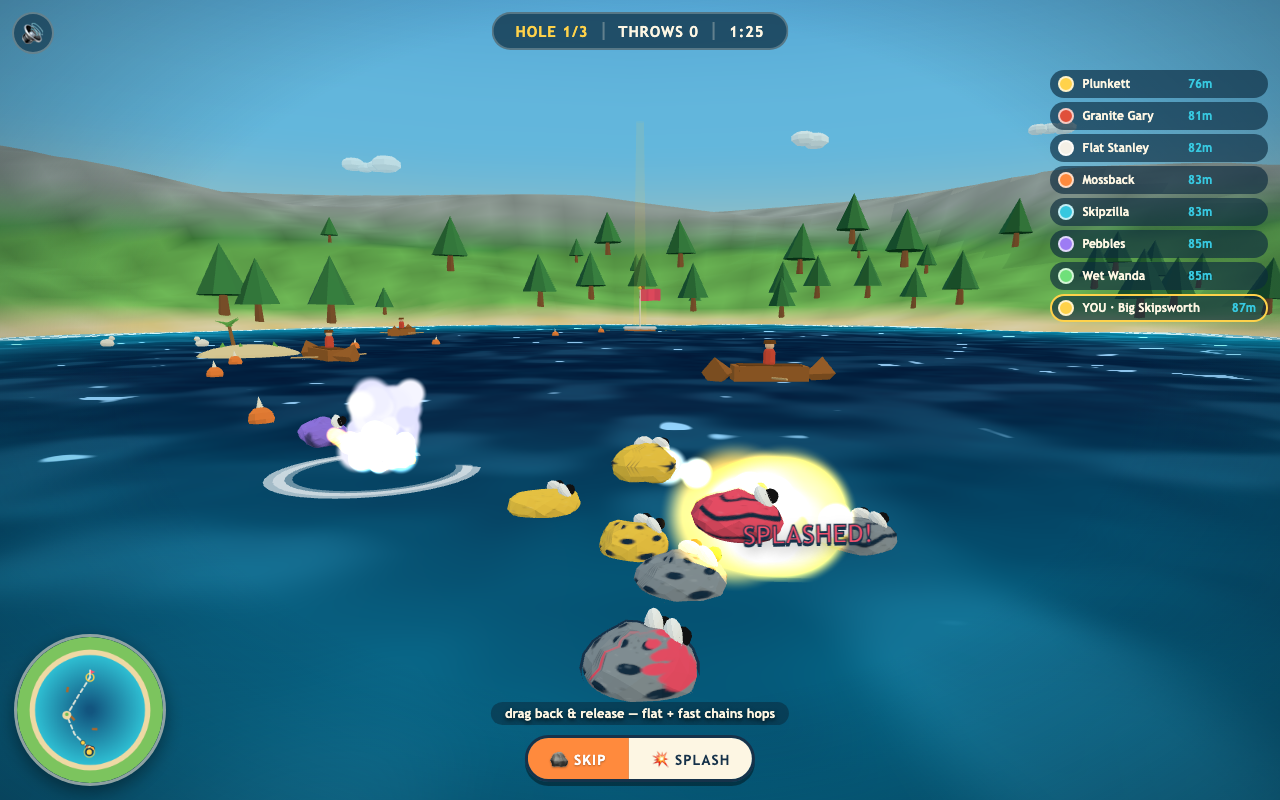
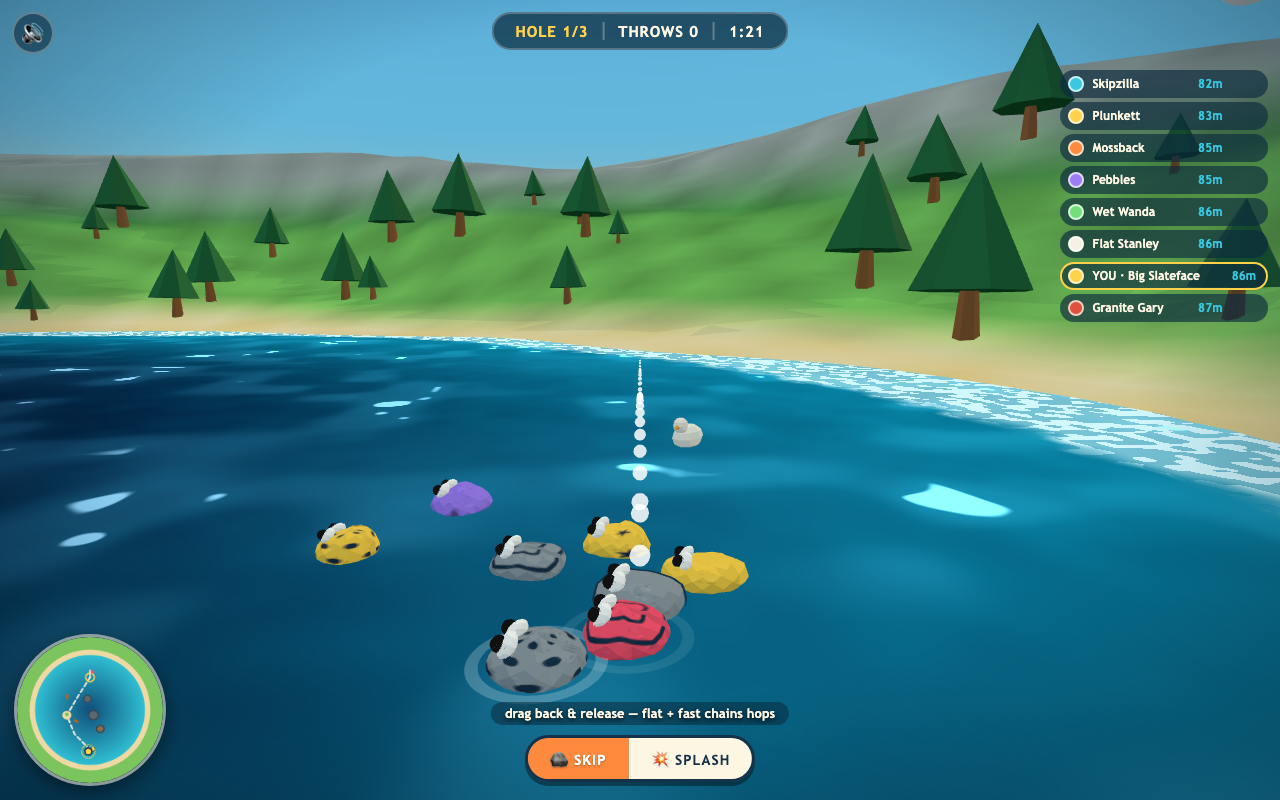
Rock spire hazards + aim-orbiting camera
Giant outcrops wall off the direct line to each flag, forcing play along
the island route. Cylinder collision with honest preview (same maths in
simulateThrow, so the aim dots and bot planner both see the CLONK).
Hazards render on the minimap.

The aim camera now orbits the resting stone to follow your drag, keeping
the trajectory preview centered on screen at all times; it re-centers
toward the flag at every new lie.

diff --git a/src/main.js b/src/main.js
@@ -65,13 +65,17 @@ const cel = new CelShader(scene, { steps: 4, floor: 0.42, rescanSec: 1.0 });
 // rest stops on the bends — land on one and you throw from dry sand, no fishing.
 const HOLES = [
   {
-    // gentle S through one island
+    // gentle S through one island; spires wall off the straight shot
     time: 90,
     path: [
       { x: 0, z: 46 }, { x: -18, z: 28 }, { x: -27, z: 6 },
       { x: -14, z: -16 }, { x: 0, z: -38 },
     ],
     islands: [{ x: -27, z: 6, r: 3.4 }],
+    rocks: [
+      { x: 4, z: 6, r: 5.5, h: 9 }, { x: 12, z: 22, r: 4.5, h: 8 },
+      { x: -3, z: -13, r: 4.2, h: 7 },
+    ],
   },
   {
     // double dogleg around the east shore, two islands
@@ -81,6 +85,10 @@ const HOLES = [
       { x: 34, z: -16 }, { x: 40, z: 6 }, { x: 28, z: 24 }, { x: 12, z: 34 },
     ],
     islands: [{ x: 12, z: -34, r: 3.2 }, { x: 40, z: 6, r: 3.6 }],
+    rocks: [
+      { x: -14, z: 2, r: 6, h: 9 }, { x: 2, z: 11, r: 5, h: 8 },
+      { x: -3, z: -11, r: 4.5, h: 7 },
+    ],
   },
   {
     // full zigzag, three islands
@@ -91,6 +99,10 @@ const HOLES = [
       { x: 8, z: 37 }, { x: 28, z: 26 },
     ],
     islands: [{ x: 14, z: -41, r: 3 }, { x: -36, z: -14, r: 3.4 }, { x: -16, z: 29, r: 3 }],
+    rocks: [
+      { x: 34, z: -2, r: 5.5, h: 9 }, { x: 25, z: 11, r: 4.5, h: 8 },
+      { x: 15, z: -13, r: 4.5, h: 7 }, { x: 0, z: 4, r: 5, h: 8 },
+    ],
   },
 ];
 const CAPTURE_R = 4.2;
@@ -120,8 +132,19 @@ const G = {
   throwMode: "skip",
   throwCooldown: 0,
   slowmoUsed: false,
+  aimDir: new THREE.Vector3(0, 0, -1), // camera-following aim direction
   effects: [], // { t, fn } delayed one-shots on game time
 };
+
+/** point the aim (and thus the camera) from the player's lie toward the flag */
+function resetAim() {
+  const p = G.player;
+  if (!p) return;
+  const f = holeFlag();
+  G.aimDir.set(f.x - p.pos.x, 0, f.z - p.pos.z);
+  if (G.aimDir.lengthSq() < 0.01) G.aimDir.set(0, 0, -1);
+  G.aimDir.normalize();
+}
 
 function after(sec, fn) { G.effects.push({ t: sec, fn }); }
 
@@ -241,11 +264,8 @@ function camUpdate(dt) {
     targetLook = lookStart.lerp(lookEnd, e);
     if (t >= 1) cam.mode = "aim";
   } else if (cam.mode === "aim" && p) {
-    const flag = currentFlagV3();
-    const dir = new THREE.Vector3().subVectors(flag, p.pos);
-    dir.y = 0;
-    if (dir.lengthSq() < 0.01) dir.set(0, 0, -1);
-    dir.normalize();
+    // orbit behind the CURRENT aim so the trajectory previz stays centered
+    const dir = G.aimDir;
     const pull = drag.power * 2.2;
     targetPos = p.pos.clone().addScaledVector(dir, -(6.5 + pull)).add(new THREE.Vector3(0, 3.4 + pull * 0.4, 0));
     targetLook = p.pos.clone().addScaledVector(dir, 10).add(new THREE.Vector3(0, 1.2, 0));
@@ -269,7 +289,12 @@ function camUpdate(dt) {
     targetLook = cam.look;
   }
 
-  const l = cam.mode === "flight" ? 6.5 : cam.mode === "intro" ? 8 : cam.mode === "replay" ? 6 : 3.6;
+  // snappier orbit while actively dragging so the previz tracks the pointer
+  const l = cam.mode === "flight" ? 6.5
+    : cam.mode === "intro" ? 8
+    : cam.mode === "replay" ? 6
+    : cam.mode === "aim" && drag.active ? 6.5
+    : 3.6;
   camRig.position.x = damp(camRig.position.x, targetPos.x, l, dt);
   camRig.position.y = damp(camRig.position.y, targetPos.y, l, dt);
   camRig.position.z = damp(camRig.position.z, targetPos.z, l, dt);
@@ -307,10 +332,11 @@ function updateDragAim() {
   const ang = -dx * 0.005;
   const cos = Math.cos(ang), sin = Math.sin(ang);
   drag.dir.set(base.x * cos - base.z * sin, 0, base.x * sin + base.z * cos);
+  G.aimDir.copy(drag.dir); // camera orbits to keep the previz centered
 
   // preview via the real sim
   previewMat.color.setHex(G.throwMode === "splash" ? 0xff9aac : 0xffffff);
-  const sim = simulateThrow(p.pos, drag.dir, drag.power, G.throwMode, p.rock, water, G.elapsed, 6, HOLES[G.hole].islands);
+  const sim = simulateThrow(p.pos, drag.dir, drag.power, G.throwMode, p.rock, water, G.elapsed, 6, HOLES[G.hole].islands, HOLES[G.hole].rocks);
   const step = Math.max(1, Math.floor(sim.points.length / previewDots.length));
   let di = 0;
   for (let i = 0; i < sim.points.length && di < previewDots.length; i += step) {
@@ -340,7 +366,7 @@ function tryPlayerThrow() {
   // invisible aim assist (team scrap: invisible-driving-assist-layer):
   // if the throw would land near the flag line, nudge it a touch truer
   if (G.throwMode === "skip") {
-    const sim = simulateThrow(p.pos, drag.dir, power, "skip", p.rock, water, G.elapsed, 6, HOLES[G.hole].islands);
+    const sim = simulateThrow(p.pos, drag.dir, power, "skip", p.rock, water, G.elapsed, 6, HOLES[G.hole].islands, HOLES[G.hole].rocks);
     const end = sim.points[sim.points.length - 1];
     if (end) {
       const flag = currentFlagV3();
@@ -982,8 +1008,8 @@ function setupHole(idx) {
   G.slowmoUsed = false;
   const tee = holeTee(idx), flag = holeFlag(idx);
   world.flag.setPosition(flag.x, flag.z);
-  world.course.setHole(HOLES[idx].path, HOLES[idx].islands);
-  minimap.bake(HOLES[idx].path, HOLES[idx].islands);
+  world.course.setHole(HOLES[idx].path, HOLES[idx].islands, HOLES[idx].rocks);
+  minimap.bake(HOLES[idx].path, HOLES[idx].islands, HOLES[idx].rocks);
   for (const s of G.racers) s.resetHole(tee.x, tee.z, 4);
   for (const b of G.bots) {
     b.cooldown = 3.2 + Math.random() * 3.5; // let the intro flyover breathe
@@ -991,6 +1017,7 @@ function setupHole(idx) {
   }
   cam.mode = "intro";
   G.introT = 0;
+  resetAim();
   // snap the rig to the flyover start so the wipe reveals a framed shot
   {
     const flagV = new THREE.Vector3(flag.x, 0, flag.z);
@@ -1055,6 +1082,7 @@ function onSkimmerEvent(type, data) {
       if (mine) {
         cam.mode = "aim";
         G.throwCooldown = 0.4;
+        resetAim();
         if (s.skips >= 3) {
           const sc = worldToScreen(s.pos);
           if (!sc.behind) ui.popup(sc.x, sc.y - 40, `${s.skips} skips!`, { size: 26, color: "#aef4ff" });
@@ -1118,10 +1146,26 @@ function onSkimmerEvent(type, data) {
         ui.banner("FERRY RIDE!", "the rowboat carries your stone — throw when ready", 2.2);
         cam.mode = "aim";
         G.throwCooldown = 0.4;
+        resetAim();
         shake(0.1);
       } else {
         const sc = worldToScreen(data.at);
         if (!sc.behind) ui.popup(sc.x, sc.y, `${s.name} hitched a ride!`, { size: 16, color: "#fff" });
+      }
+      break;
+    }
+    case "clonk": {
+      audio.thunk();
+      particles.grindChips(data.at);
+      particles.skipSplash(data.at, s.vel, 0.3);
+      const sc = worldToScreen(data.at);
+      if (mine) {
+        shake(0.3);
+        hitstop(0.05, 0.8);
+        if (!sc.behind) ui.popup(sc.x, sc.y - 10, "CLONK!", { size: 30, color: "#c8d2d8" });
+        haptic([25, 30]);
+      } else if (!sc.behind) {
+        ui.popup(sc.x, sc.y, "clonk", { size: 16, color: "#c8d2d8" });
       }
       break;
     }
@@ -1134,6 +1178,7 @@ function onSkimmerEvent(type, data) {
         ui.banner("SAFE ON SAND", "dry land — throw again whenever, no fishing here", 1.6);
         cam.mode = "aim";
         G.throwCooldown = 0.4;
+        resetAim();
         shake(0.08);
       } else if (!sc.behind) {
         ui.popup(sc.x, sc.y, `${s.name} island-hopped`, { size: 15, color: "#6fe07a" });
@@ -1147,6 +1192,7 @@ function onSkimmerEvent(type, data) {
         if (!sc.behind) ui.popup(sc.x, sc.y, "BEACHED", { size: 26, color: "#eed9a4" });
         cam.mode = "aim";
         G.throwCooldown = 0.4;
+        resetAim();
       }
       break;
     }
@@ -1374,7 +1420,7 @@ function updateRace(dt) {
   const ctx = {
     dt, elapsed: G.elapsed, water, boats,
     others: G.racers, flagPos: flag, captureR: CAPTURE_R,
-    islands: HOLES[G.hole].islands, path: HOLES[G.hole].path,
+    islands: HOLES[G.hole].islands, path: HOLES[G.hole].path, rocks: HOLES[G.hole].rocks,
     onBotRecover: (s) => {
       particles.sinkSplash(s.pos, 0.7);
     },
@@ -1457,6 +1503,7 @@ function updateRace(dt) {
       if (!sc.behind) ui.popup(sc.x, sc.y - 30, clean ? "CLEAN CATCH!" : "got it back...", { size: 28, color: "#6fe07a" });
       cam.mode = "aim";
       G.throwCooldown = 0.4;
+      resetAim();
       p.rock.kickEyes(1.5);
     });
   }

diff --git a/src/physics.js b/src/physics.js
@@ -19,6 +19,18 @@ export const BLAST_R = 2.6; // splash lob knock radius
 
 const _tmp = new THREE.Vector3();
 
+/** cylinder test against a hole's big rock outcrops */
+function hitOutcrop(pos, rocks) {
+  for (const o of rocks) {
+    const dx = pos.x - o.x, dz = pos.z - o.z;
+    const d = Math.hypot(dx, dz);
+    if (d < o.r && pos.y < o.h) {
+      return { o, nx: dx / (d || 1), nz: dz / (d || 1) };
+    }
+  }
+  return null;
+}
+
 export class Skimmer {
   constructor(rock, name, isPlayer = false, tint = "#ffd24a") {
     this.rock = rock; // Rock instance (owns the mesh)
@@ -107,6 +119,28 @@ export class Skimmer {
         this.vel.y -= GRAVITY * dt;
         this.pos.addScaledVector(this.vel, dt);
         this.spin = Math.max(2, this.spin - dt * 6);
+
+        // big rock outcrops wall off the direct line — CLONK and drop
+        if (ctx.rocks) {
+          const hit = hitOutcrop(this.pos, ctx.rocks);
+          if (hit) {
+            const { o, nx, nz } = hit;
+            this.pos.x = o.x + nx * o.r;
+            this.pos.z = o.z + nz * o.r;
+            const dot = this.vel.x * nx + this.vel.z * nz;
+            if (dot < 0) {
+              this.vel.x -= 2 * dot * nx;
+              this.vel.z -= 2 * dot * nz;
+            }
+            this.vel.x *= 0.4;
+            this.vel.z *= 0.4;
+            this.vel.y = Math.min(this.vel.y * 0.4, 1.5);
+            this.skips = Math.max(this.skips, 1); // a clonk breaks the chain
+            this.rock.kickEyes(2);
+            this.rock.squashKick?.(1.1);
+            this._emit("clonk", { at: this.pos.clone() });
+          }
+        }
 
         // killcam tape
         this.tape.push({ x: this.pos.x, y: this.pos.y, z: this.pos.z, ry: this.mesh.rotation.y });
@@ -360,7 +394,7 @@ Skimmer.prototype._waterContact = function (ctx, waterY) {
  * Dry-run a throw with the same maths for the aim preview.
  * Returns { points: Vector3[], skips: Vector3[], end: 'rest'|'sink'|'flying' }.
  */
-export function simulateThrow(startPos, dirXZ, power, mode, rock, water, elapsed, maxT = 6, islands = null) {
+export function simulateThrow(startPos, dirXZ, power, mode, rock, water, elapsed, maxT = 6, islands = null, rocks = null) {
   const s = {
     pos: startPos.clone(),
     vel: new THREE.Vector3(),
@@ -380,6 +414,20 @@ export function simulateThrow(startPos, dirXZ, power, mode, rock, water, elapsed
     s.vel.y -= GRAVITY * dt;
     s.pos.addScaledVector(s.vel, dt);
     if ((points.length === 0) || t % (dt * 3) < dt) points.push(s.pos.clone());
+    if (rocks) {
+      const hit = hitOutcrop(s.pos, rocks);
+      if (hit) {
+        // preview shows the clonk honestly: reflect, damp, keep simulating
+        const { o, nx, nz } = hit;
+        s.pos.x = o.x + nx * o.r;
+        s.pos.z = o.z + nz * o.r;
+        const dot = s.vel.x * nx + s.vel.z * nz;
+        if (dot < 0) { s.vel.x -= 2 * dot * nx; s.vel.z -= 2 * dot * nz; }
+        s.vel.x *= 0.4; s.vel.z *= 0.4;
+        s.vel.y = Math.min(s.vel.y * 0.4, 1.5);
+        skips.push(s.pos.clone());
+      }
+    }
     if (islands) {
       let hitIsl = false;
       for (const isl of islands) {

diff --git a/src/world.js b/src/world.js
@@ -384,7 +384,7 @@ export class CourseMarkers {
     this._bobPhases = this.buoys.map(() => Math.random() * 10);
   }
 
-  setHole(path, islands) {
+  setHole(path, islands, rocks = []) {
     // ---- buoys every ~9u along the polyline, skipping ends
     let placed = 0;
     for (let seg = 0; seg < path.length - 1 && placed < this.buoys.length; seg++) {
@@ -440,6 +440,37 @@ export class CourseMarkers {
       palm.position.set(-isl.r * 0.3, isl.r * 0.12, 0);
       g.add(palm);
       g.position.set(isl.x, 0, isl.z);
+      this.islandGroup.add(g);
+    }
+
+    // ---- big rock outcrops walling off the direct line to the flag
+    const stone = new THREE.MeshStandardMaterial({ color: 0x7d8a90, flatShading: true });
+    const stoneDark = new THREE.MeshStandardMaterial({ color: 0x5d686e, flatShading: true });
+    const moss = new THREE.MeshStandardMaterial({ color: 0x5da24e, flatShading: true });
+    for (const o of rocks) {
+      const g = new THREE.Group();
+      // main spire — jagged, tall, unmistakably "not through here"
+      const spire = new THREE.Mesh(new THREE.IcosahedronGeometry(1, 1), stone);
+      spire.scale.set(o.r * 0.8, o.h * 0.62, o.r * 0.72);
+      spire.position.y = o.h * 0.42;
+      spire.rotation.y = (o.x * 13.7) % Math.PI;
+      g.add(spire);
+      // leaning side slabs
+      for (let i = 0; i < 3; i++) {
+        const slab = new THREE.Mesh(new THREE.IcosahedronGeometry(1, 0), i % 2 ? stoneDark : stone);
+        const a = (i / 3) * Math.PI * 2 + o.z;
+        const rr = o.r * (0.5 + (i % 2) * 0.3);
+        slab.scale.set(o.r * 0.42, o.h * (0.22 + i * 0.09), o.r * 0.4);
+        slab.position.set(Math.cos(a) * rr, o.h * (0.14 + i * 0.05), Math.sin(a) * rr);
+        slab.rotation.set((i - 1) * 0.24, a, (i - 1) * 0.18);
+        g.add(slab);
+      }
+      // mossy cap
+      const cap = new THREE.Mesh(new THREE.SphereGeometry(o.r * 0.34, 7, 5), moss);
+      cap.scale.y = 0.4;
+      cap.position.y = o.h * 0.98;
+      g.add(cap);
+      g.position.set(o.x, 0, o.z);
       this.islandGroup.add(g);
     }
   }

diff --git a/src/minimap.js b/src/minimap.js
@@ -20,8 +20,8 @@ export class Minimap {
     return [(x / RANGE + 0.5) * SIZE, (z / RANGE + 0.5) * SIZE];
   }
 
-  /** redraw the static course layer: shore, lake, fairway path, islands, tee, flag */
-  bake(path, islands) {
+  /** redraw the static course layer: shore, lake, fairway path, islands, outcrops, tee, flag */
+  bake(path, islands, rocks = []) {
     const ctx = this.bakeCanvas.getContext("2d");
     const S = SIZE;
     ctx.clearRect(0, 0, S, S);
@@ -45,6 +45,19 @@ export class Minimap {
     ctx.beginPath();
     ctx.arc(S / 2, S / 2, lakePx, 0, Math.PI * 2);
     ctx.fill();
+
+    // rock outcrops (hazards — draw under the path line)
+    for (const o of rocks) {
+      const [x, y] = this._w2m(o.x, o.z);
+      const r = (o.r / RANGE) * S;
+      ctx.fillStyle = "#5d686e";
+      ctx.strokeStyle = "#3c454a";
+      ctx.lineWidth = 1.5;
+      ctx.beginPath();
+      ctx.arc(x, y, r, 0, Math.PI * 2);
+      ctx.fill();
+      ctx.stroke();
+    }
 
     // fairway path — dashed
     ctx.strokeStyle = "rgba(253,246,227,0.85)";

diff --git a/src/bots.js b/src/bots.js
@@ -113,7 +113,7 @@ export class BotBrain {
     // candidate powers, judged with the shared preview sim
     let bestPower = 0.7, bestErr = Infinity;
     for (const pw of [0.35, 0.5, 0.65, 0.8, 0.95]) {
-      const sim = simulateThrow(s.pos, _dir, pw, mode, s.rock, ctx.water, ctx.elapsed, 5, ctx.islands);
+      const sim = simulateThrow(s.pos, _dir, pw, mode, s.rock, ctx.water, ctx.elapsed, 5, ctx.islands, ctx.rocks);
       const endP = sim.points[sim.points.length - 1];
       if (!endP) continue;
       const err = Math.hypot(endP.x - targetPos.x, endP.z - targetPos.z) + (sim.end === "sink" ? 8 : 0);

diff --git a/README.md b/README.md
@@ -32,7 +32,12 @@ find a rock → shape it → paint it → skip battle
 | **Ferry** | land *in* a rowboat and it carries your stone across the lake |
 
 Each hole is a fairway of buoys with doglegs and island rest stops — follow
-the minimap. First stone inside the flag ring takes the hole; most holes wins.
+the minimap. Giant rock spires wall off the straight line to the flag:
+**CLONK** into one and your chain is dead (a high splash-lob can just clear
+the shorter ones). First stone inside the flag ring takes the hole; most
+holes wins.
+
+![spires guard the flag](media/course.png)
 
 ## ✨ The juicy bits
 